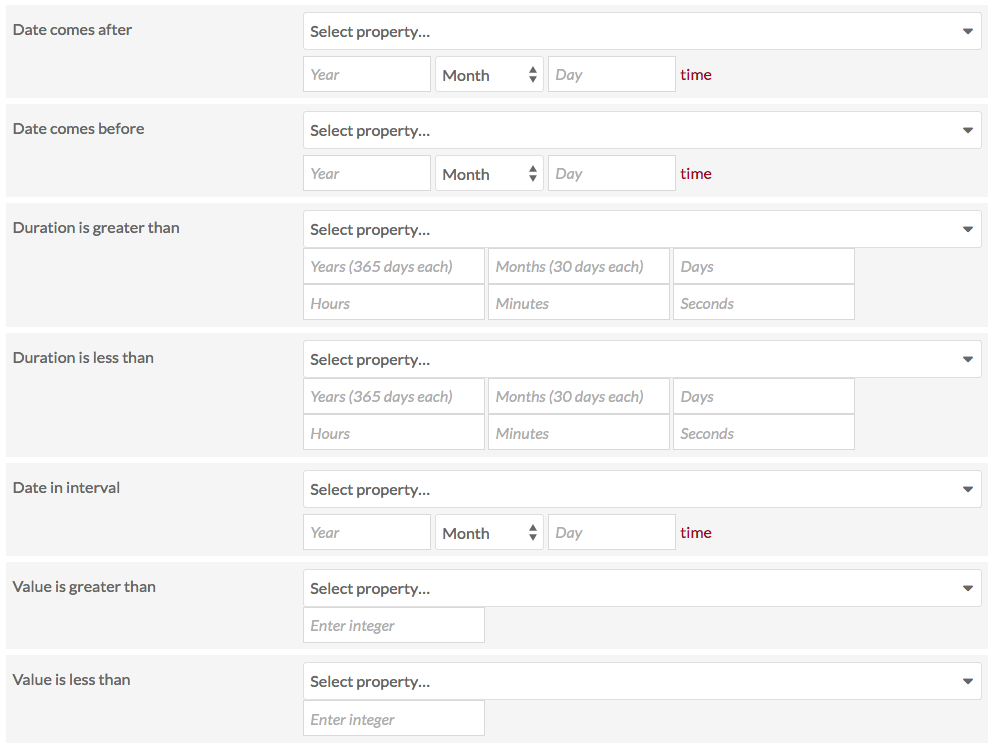
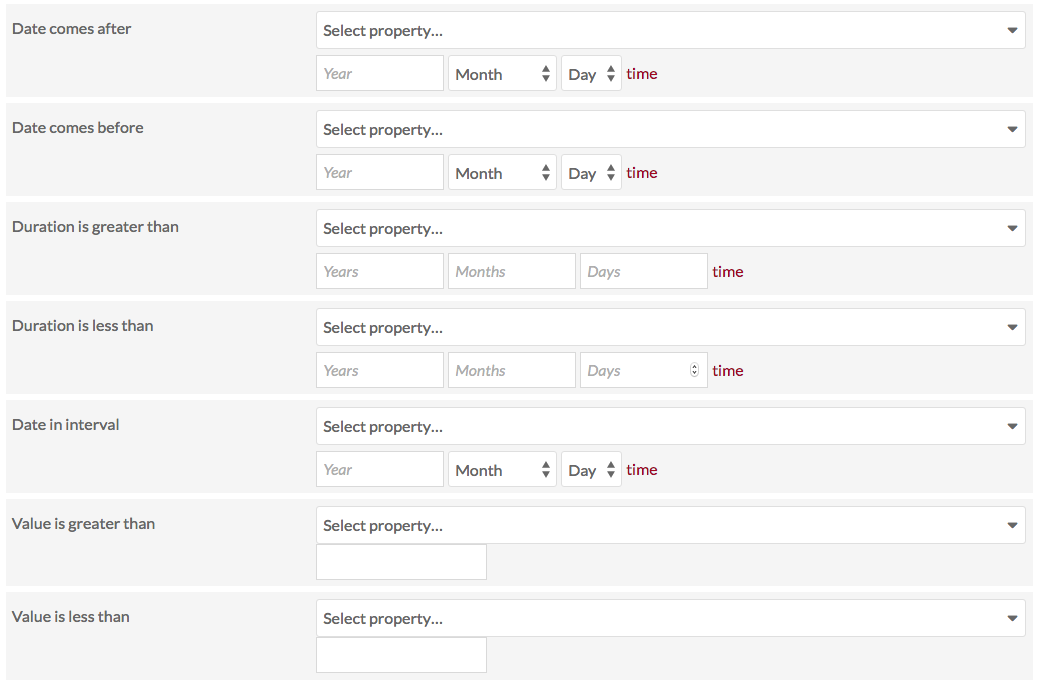
Numeric Data types
updating

diff --git a/docs/modules/numericdatatypes.md b/docs/modules/numericdatatypes.md
@@ -53,7 +53,7 @@ An integer property has a narrow input which, once you have data in it, will dis
 
 Your entry must be whole number; decimal points are not supported and will be rounded up to the nearest number. 
 
-## Duration data
+### Duration data
 A Duration property has a series of fields in which to enter the duration of the resource. There are fields for:
 
 - Years
@@ -62,22 +62,38 @@ A Duration property has a series of fields in which to enter the duration of the
 - Hours
 - Minutes
 - Seconds
+By default, only the first three of these fields display. Clicking on the "time" button to the right of the day input field will load the fields for Hour, Minute, and Second. Note that there is no AM/PM option so you will want to use twenty-four hour time entries (14 for 2pm, etc)
 
-![A property labelled duration, using the vocabulary dcterms "extent". There fields described are in a stack, with year on top.](../modules/modulesfiles/ndt-durationpng)
+![A property labelled duration, using the vocabulary dcterms "extent". There fields described are in a stack, with year on top.](../modules/modulesfiles/ndt-duration.png)
 
 You do not need to enter every field. For example, you can enter a duration of 1 year and 5 days, leaving the month field blank.
 
-## Interval data
+### Interval data
 Interval data allows you to enter the beginning and end dates for a resource. There are two sets of timestamp fields, one for the start date and one for the end. 
 
 ![Interval property with no times entered](../modules/modulesfiles/ndt-interval.png)
 
+## Sorting 
+Once you have active resource templates using numeric data types, you can use these to sort on the Item, Media, and Item Set browse views. 
+
+Click the first dropdown on the upper right above the table of resources, which defaults to "Created"
+
+![A closeup of the options above the resource table, with a red arrow points to the "created" dropdown option"](../modules/modulesfiles/ndt-browsesort1.png)
+
+Clicking on this dropdown will reveal multiple options, including all of the properties using numeric data types. These options display as the property with the data type in parentheses, for example "Date (numeric:timestamp)" 
+
+![The contents of the dropdown, with the normal options in addition to eight properties using numeric data types.](../modules/modulesfiles/ndt-browsesort2.png)
+
 ## Numeric data search
 When the module is active, it adds additional search options to the Advanced Search for items. 
 
-For each search option, you must select a specific property from the dropdown; if you are using Duration in two resource templates, one for film (ex `time:hasDuration`) and one for events (ex, `dcterms:extent`), you would need to select the correct property from the resource template which you want to search.
-
 ![Numeric data type search options, no data entered](../modules/modulesfiles/ndt-search.png)
+
+For each search option, you must select a specific property from the dropdown; if you are using Duration in two resource templates, one for film (ex `time:hasDuration`) and one for events (ex, `dcterms:extent`), you would need to select the correct property from the resource template which you want to search. The dropdown will display the original property labels (`Extent` or `hasDuration` in the examples above). If you hover over the properties in the dropdown, it will show you the resource templates which are using that property and to which the search will apply.
+
+
+![Close up of the "Date comes before" search, displaying the hovertext for the Date property](../modules/modulesfiles/ndt-searchhelper.png)
+
 
 **Timestamp** data has two search options, one for "Date comes before" and "Date comes after". Select the property for timestamp from the dropdown - only properties which are being used for timestamp will appear in the dropdown. 
 
